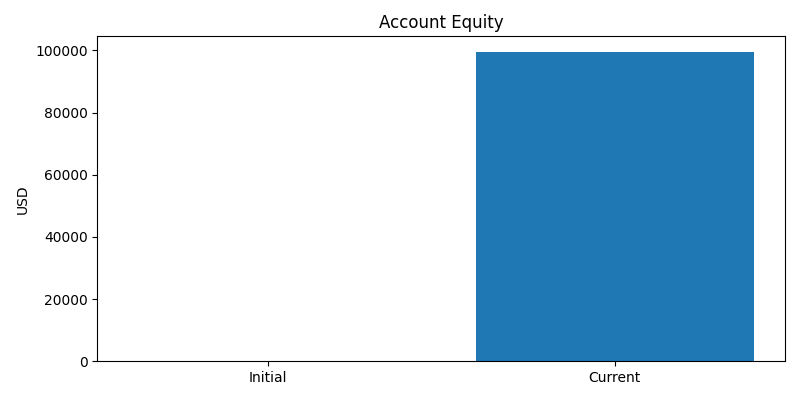
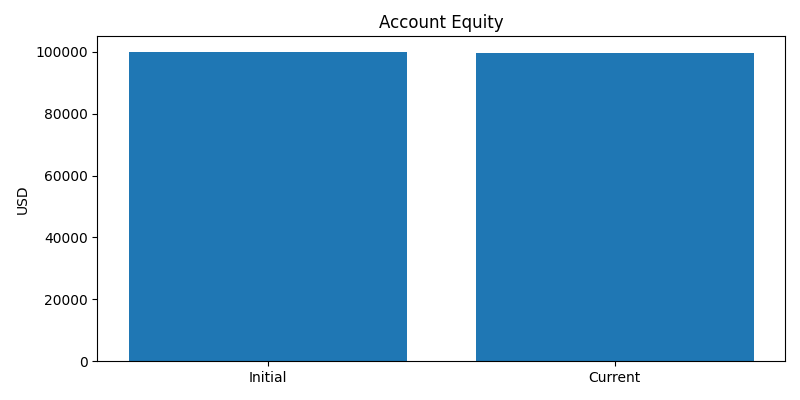
update stats py

diff --git a/alpaca_stats.html b/alpaca_stats.html
@@ -14,7 +14,6 @@
 <body>
     <h1>Alpaca Account Stats</h1>
     <div class="stats">
-        <img src="equity_bar.png" alt="Equity Bar Chart" style="max-width:400px;">
         <h2>Returns</h2>
         <ul id="returns-list"></ul>
         <h2>Account Equity</h2>

diff --git a/alpaca_stats.py b/alpaca_stats.py
@@ -42,7 +42,7 @@ ts = pd.to_datetime(timestamps, unit="s", utc=True) if len(timestamps) else pd.t
 eq = pd.Series(equities, index=ts).sort_index().astype(float) if len(equities) else pd.Series(dtype=float)
 
 equity = float(eq.iloc[-1]) if len(eq) else 0.0
-initial_equity = float(eq.iloc[0]) if len(eq) else equity
+initial_equity = float(100000)
 last_equity = float(eq.iloc[-2]) if len(eq) > 1 else equity
 
 def calc_return(start_equity, end_equity):
@@ -106,7 +106,6 @@ with open("alpaca_stats.html", "w") as f:
 <body>
     <h1>Alpaca Account Stats</h1>
     <div class=\"stats\">
-        <img src=\"equity_bar.png\" alt=\"Equity Bar Chart\" style=\"max-width:400px;\">
         <h2>Returns</h2>
         <ul id=\"returns-list\"></ul>
         <h2>Account Equity</h2>
